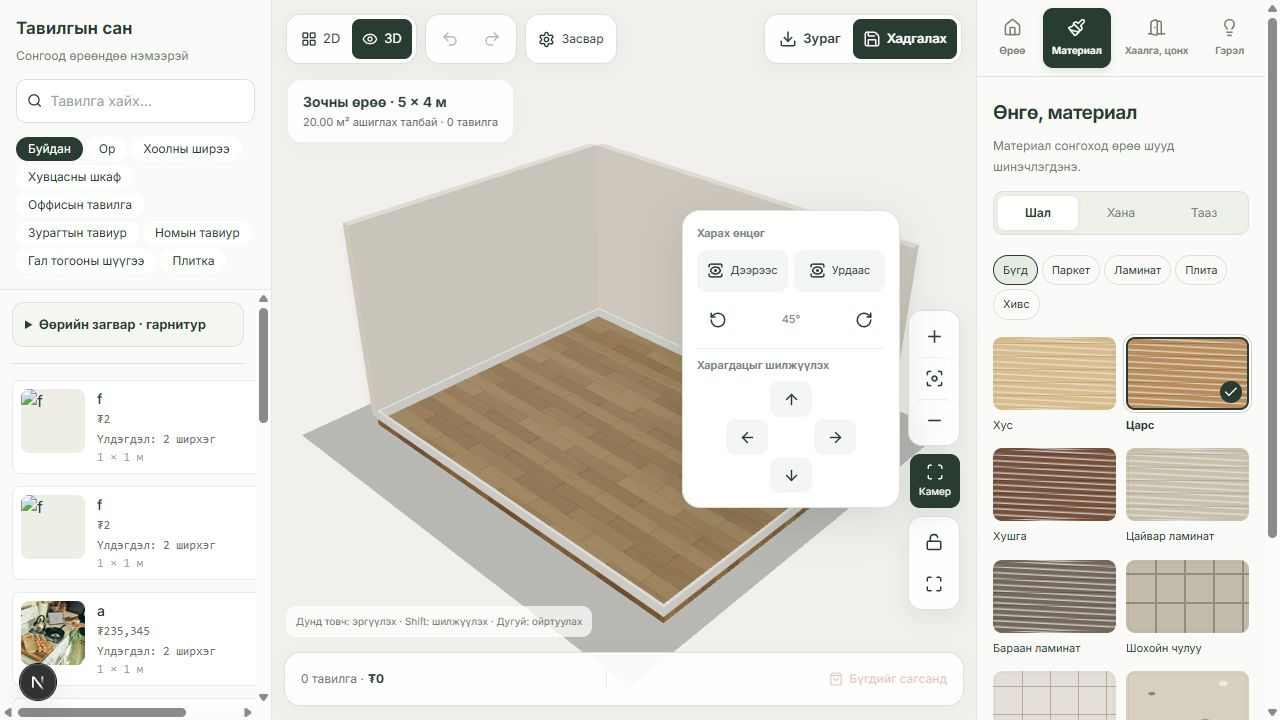
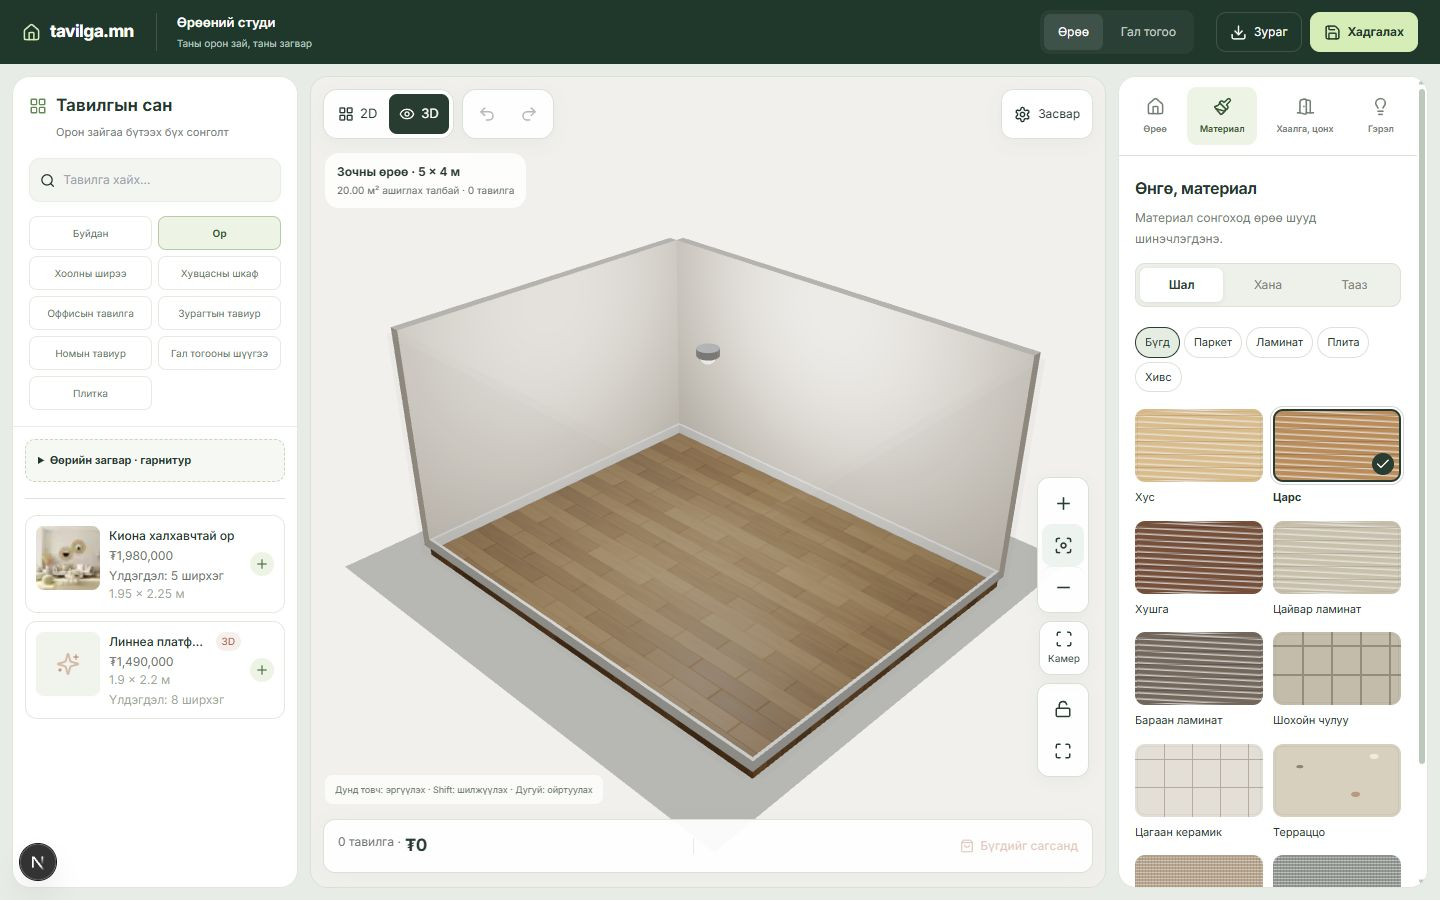
feat: implement studio redesign with shared styles and enhanced UI components

diff --git a/src/features/planner/components/planner-studio.css b/src/features/planner/components/planner-studio.css
@@ -1,0 +1,145 @@
+/* Shared studio chrome. No filters over the WebGL canvas or new animation loops. */
+.planner-studio {
+  --studio-ink: #24372f;
+  --studio-muted: #718078;
+  --studio-line: #e1e6df;
+  --studio-paper: #ffffff;
+  --studio-shell: #e8ece6;
+  --studio-accent: #d7edb8;
+  color: var(--studio-ink);
+  font-family: inherit;
+}
+.studio-header, .planner-studio .kp-planner-topbar {
+  background: #20372c;
+  color: #fff;
+  border: 0;
+  box-shadow: none;
+}
+.studio-header { display: flex; align-items: center; gap: 22px; padding: 0 22px; }
+.studio-brand { display: flex; align-items: center; gap: 9px; font-size: 17px; font-weight: 750; letter-spacing: -.5px; }
+.studio-brand > svg, .planner-studio .kp-planner-brand > svg { color: var(--studio-accent); }
+.studio-heading { display: flex; flex-direction: column; gap: 3px; padding-left: 20px; border-left: 1px solid #ffffff24; white-space: nowrap; }
+.studio-heading > span { font-size: 13px; font-weight: 600; }
+.studio-heading small { font-size: 10px; color: #bccbc1; }
+.studio-switch { display: flex; gap: 4px; margin-left: auto; padding: 4px; background: #ffffff0c; border-radius: 10px; font-size: 12px; }
+.studio-switch > * { display: inline-flex; align-items: center; justify-content: center; min-height: 36px; padding: 0 14px; border-radius: 7px; color: #c2cec6; }
+.studio-switch [aria-current] { background: #ffffff18; color: #fff; }
+.studio-switch a:hover { background: #ffffff12; color: #fff; }
+.studio-file-actions { display: flex; gap: 8px; }
+.studio-file-actions button { min-height: 40px; display: inline-flex; align-items: center; justify-content: center; gap: 7px; padding: 8px 13px; border: 1px solid #ffffff24; border-radius: 10px; color: #fff; font-size: 12px; }
+.studio-file-actions button:hover { background: #ffffff15; }
+.studio-file-actions .studio-primary { color: #20372c; background: var(--studio-accent); border-color: var(--studio-accent); font-weight: 700; }
+.studio-file-actions .studio-primary:hover { background: #e4f4ce; }
+.planner-studio :focus-visible { outline: 2px solid #a9c787; outline-offset: 3px; }
+.planner-studio .planner-drawer-body, .planner-studio .kp-settings { scrollbar-width: thin; scrollbar-color: #bcc8bb transparent; }
+.planner-studio .viewport-zoom, .planner-studio .viewport-more > summary, .planner-studio .viewport-extra { border-color: #d8e1d5; box-shadow: 0 4px 15px #20372c0c; border-radius: 12px; }
+.planner-studio .viewport-more[open] > summary { background: #20372c; border-color: #20372c; }
+.planner-studio .viewport-popover { border-radius: 14px; border-color: #d8e1d5; }
+.planner-studio .viewport-popover p { letter-spacing: .02em; color: #546c5c; }
+.planner-studio button { transition: background-color 140ms, border-color 140ms, color 140ms; }
+
+/* Room: a persistent project bar, with three framed workspace columns. */
+.planner-workspace.planner-studio { padding: 76px 12px 12px; gap: 12px; grid-template-columns: 286px minmax(0, 1fr) 310px; background: var(--studio-shell); }
+.room-studio-header { position: absolute; inset: 0 0 auto; z-index: 40; height: 64px; }
+.planner-studio .planner-stage { min-width: 0; min-height: 0; overflow: hidden; border: 1px solid #d9e0d4; border-radius: 18px; }
+.planner-studio .planner-drawer { border: 1px solid var(--studio-line); border-radius: 18px; background: #fff; }
+.planner-studio .planner-panel-heading { margin-bottom: 18px; font-size: 17px; }
+.planner-studio .planner-panel-heading > span { display: flex; align-items: center; gap: 9px; }
+.planner-studio .planner-panel-heading svg { color: #638a52; }
+.planner-studio .planner-panel-heading small { font-size: 11px; margin-left: 27px; color: var(--studio-muted); }
+.planner-studio .planner-search { background: #f3f6f0; border: 1px solid #e8ede4; border-radius: 11px; min-height: 44px; }
+.planner-studio .planner-search input { font-size: 12px; }
+.studio-categories { display: grid; grid-template-columns: repeat(2, minmax(0, 1fr)); gap: 6px; }
+.studio-categories button { border: 1px solid #e6ebe2; border-radius: 8px; background: #fff; min-height: 34px; padding: 7px 5px; font-size: 10px; color: #647565; }
+.studio-categories button[aria-pressed="true"] { background: #edf4e5; color: #355531; border-color: #b9ccaa; font-weight: 650; }
+.studio-catalog-scroll { overflow-x: hidden; }
+.studio-catalog-list { gap: 8px; grid-template-columns: minmax(0, 1fr); }
+.studio-catalog-list > button { min-width: 0; width: 100%; padding: 10px; border-radius: 12px; border-color: #e4e9e0; gap: 9px; }
+.studio-catalog-list > button:hover { background: #f7faf3; border-color: #b9ccaa; }
+.studio-catalog-list > button > div:first-child { background: #f1f3ed; }
+.studio-catalog-list > button > div:last-child { width: 24px; height: 24px; flex-shrink: 0; background: #edf4e5; color: #4c7043; }
+.studio-catalog-list p { font-family: inherit; }
+.studio-catalog-list p:first-child { font-size: 12px; }
+.planner-studio .planner-kitchen-library > summary { font-size: 11px; background: #f6f8f3; border: 1px dashed #c8d5bf; border-radius: 10px; }
+.planner-studio .room-environment-tabs { background: #fff; padding: 10px 8px; gap: 4px; }
+.planner-studio .room-environment-tabs button { border-radius: 10px; min-height: 58px; font-size: 9px; }
+.planner-studio .room-environment-tabs button[aria-pressed="true"] { background: #edf4e5; color: #355531; box-shadow: none; }
+.planner-studio .room-panel-intro { padding-top: 20px; }
+.planner-studio .room-panel-intro h3 { font-size: 16px; letter-spacing: -.3px; }
+.planner-studio .room-material-sample { border-radius: 10px; }
+.planner-studio .planner-view-toolbar { top: 12px; left: 12px; right: 12px; }
+.planner-studio .planner-tools-menu { margin-left: auto; }
+.planner-studio .planner-tools-popover { left: auto; right: 0; }
+.planner-studio .planner-tools-menu > summary { min-height: 50px; border-radius: 12px; }
+.planner-studio .planner-room-caption { top: 76px; left: 14px; background: #ffffffd9; border: 0; box-shadow: none; padding: 10px 12px; }
+.planner-studio .planner-room-caption strong { font-size: 12px; }
+.planner-studio .planner-room-caption span { font-size: 10px; }
+.planner-studio .planner-budget-bar { padding: 12px 14px; border-radius: 12px; border-color: #d9e2d3; }
+.planner-studio .planner-budget-bar strong { font-size: 17px; letter-spacing: -.4px; }
+.planner-studio .planner-budget-bar button:not(:disabled) { background: #20372c; color: #fff; padding: 9px 12px; border-radius: 8px; }
+.planner-studio .room-camera-guide { background: #ffffffb8; border-radius: 8px; font-size: 9px; }
+.planner-studio .planner-measure-readout { top: 142px; }
+
+/* Kitchen: same project bar and inspector, retaining its full-canvas workflow. */
+.planner-studio.kp-shell { background: var(--studio-shell); }
+.planner-studio .kp-planner-topbar { min-height: 64px; padding: 10px 20px; gap: 14px; flex-shrink: 0; }
+.planner-studio .kp-planner-brand { color: #fff; border: 0; padding-right: 0; font-size: 17px; letter-spacing: -.5px; }
+.planner-studio .kp-planner-steps { display: none; }
+.planner-studio .kp-top-actions > button, .planner-studio .kp-top-menu > summary, .planner-studio .kp-close-planner { color: #dce6de; background: #ffffff0b; border-color: #ffffff20; min-height: 40px; }
+.planner-studio .kp-top-actions > .kp-top-menu { margin: 0; }
+.planner-studio .kp-top-actions > button:hover:not(:disabled), .planner-studio .kp-top-menu > summary:hover, .planner-studio .kp-close-planner:hover { background: #ffffff19; }
+.planner-studio .kp-project-name input { background: #ffffff0b; color: #fff; border-color: #ffffff20; min-height: 40px; }
+.planner-studio .kp-top-actions > .kp-save-button { background: var(--studio-accent); color: #20372c; border-color: var(--studio-accent); font-weight: 700; }
+.planner-studio .kp-top-actions > .kp-save-button:hover:not(:disabled) { background: #e4f4ce; }
+.planner-studio .kp-top-menu .km-layout-options, .planner-studio .kp-more-content { color: var(--studio-ink); }
+.planner-studio .kp-layout { margin: 12px; border: 1px solid #d9e0d4; border-radius: 18px; }
+.planner-studio .kp-preview-bar > span { font-size: 11px; border-radius: 12px; box-shadow: none; border: 1px solid #e0e7db; }
+.planner-studio .km-view-tools { border-color: #d8e1d5; box-shadow: 0 4px 15px #20372c08; }
+.planner-studio .kp-settings { border-radius: 14px; border-color: #d8e1d5; box-shadow: 0 8px 32px #20372c12; }
+.planner-studio .kp-settings-head { border-color: var(--studio-line); background: #f4f7ef; border-radius: 10px; font-size: 14px; }
+.planner-studio .kp-settings { backdrop-filter: none; background: #fff; }
+.planner-studio .kp-settings > details { border: 1px solid #e1e7da; box-shadow: none; border-radius: 12px; background: #f8faf5; }
+.planner-studio .kp-settings > details > summary { font-size: 12px; }
+.planner-studio .studio-extras-panel { background: #fff; border-color: #e1e7da; }
+.studio-extras-panel h2 { font-size: 15px; margin-bottom: 14px; }
+.studio-extras-tabs { display: flex; gap: 4px; padding: 4px; background: #f0f4eb; border-radius: 9px; margin-bottom: 14px; }
+.planner-studio .studio-extras-tabs > button { flex: 1; font-size: 12px; min-height: 40px; border-radius: 6px; }
+.studio-extras-tabs > button[aria-pressed="true"] { background: #fff; box-shadow: 0 2px 6px #20372c0c; color: #355531; }
+.studio-extras-panel .kp-field { font-size: 11px; display: flex; flex-direction: column; gap: 7px; margin-bottom: 14px; }
+.studio-extras-panel .kp-field input { background: #f5f8f1; min-height: 42px; font-size: 14px; }
+.studio-extras-panel .km-extras-list > button { font-size: 12px; border-radius: 10px; min-width: 0; }
+.studio-extras-panel .km-extras-list > button:hover:not(:disabled) { background: #f7faf3; border-color: #b9ccaa; }
+.studio-extras-panel .km-extras-list img { width: 64px; height: 64px; flex-shrink: 0; background: #f0f4eb; }
+.studio-extras-panel .km-extras-list small { font-size: 10px; margin-top: 5px; }
+.planner-studio .kp-settings input, .planner-studio .kp-settings select { border-radius: 8px; }
+.planner-studio .kp-preview-hint, .planner-studio .km-feedback { box-shadow: none; border: 1px solid #ffffffa8; }
+@media (min-width: 761px) {
+  .planner-studio.kp-shell:has(.kp-settings.is-open) .kp-preview-bar { right: 420px; flex-wrap: wrap; }
+  .planner-studio.kp-shell:has(.kp-settings.is-open) .km-feedback { right: 420px; }
+}
+
+@media (max-width: 1390px) { .kitchen-studio-heading { display: none; } }
+@media (max-width: 1279px) {
+  .planner-workspace.planner-studio { padding: 64px 0 0; }
+  .planner-studio .planner-stage { border: 0; border-radius: 0; }
+  .planner-studio .planner-mobile-toolbar { top: 64px; min-height: 48px; background: #fff; border-color: var(--studio-line); backdrop-filter: none; }
+  .planner-studio .planner-view-toolbar { top: 60px; }
+  .planner-studio .planner-room-caption { top: 124px; }
+  .planner-studio .planner-measure-readout { top: 190px; }
+  .planner-studio .planner-drawer { top: 64px; border-radius: 0; }
+}
+@media (max-width: 760px) {
+  .studio-header { gap: 8px; padding: 0 12px; }
+  .studio-brand { font-size: 15px; }
+  .studio-heading, .studio-switch { display: none; }
+  .studio-file-actions { margin-left: auto; gap: 6px; }
+  .studio-file-actions button { min-width: 40px; padding: 8px; }
+  .studio-file-actions button > span { display: none; }
+  .planner-studio .kp-planner-topbar { padding: 8px; min-height: 60px; gap: 7px; }
+  .planner-studio .kp-top-actions { gap: 4px; }
+  .planner-studio .kp-top-actions > button, .planner-studio .kp-top-menu > summary, .planner-studio .kp-close-planner { min-height: 42px; }
+  .planner-studio .kp-layout { margin: 0; border: 0; border-radius: 0; }
+  .planner-studio .kp-preview-hint { font-size: 10px; }
+}
+@media (max-width: 359px) { .planner-studio .kp-planner-topbar { min-height: 102px; } }
+@media (prefers-reduced-motion: reduce) { .planner-studio button { transition: none; } }

diff --git a/src/components/RoomPlanner.tsx b/src/components/RoomPlanner.tsx
@@ -86,6 +86,7 @@ import {
   formatMeasurement,
 } from "@/lib/furnitureMeasurements";
 import "./room-planner.css";
+import "@/features/planner/components/planner-studio.css";
 import { type DbModelInfo, getDbModel } from "@/lib/modelRegistry";
 
 const RoomCanvas = dynamic(
@@ -819,10 +820,28 @@ export function RoomPlanner() {
     <div
       ref={workspaceRef}
       className={cn(
-        "room-planner-layout planner-workspace relative overflow-hidden xl:grid",
+        "room-planner-layout planner-workspace planner-studio relative overflow-hidden xl:grid",
         expanded && "planner-expanded",
       )}
     >
+      <header className="studio-header room-studio-header">
+        <Link href="/" className="studio-brand" aria-label="Tavilga.mn нүүр">
+          <House size={19}/><span>tavilga.mn</span>
+        </Link>
+        <div className="studio-heading"><span>Өрөөний студи</span><small>Таны орон зай, таны загвар</small></div>
+        <nav className="studio-switch" aria-label="Planner сонгох">
+          <span aria-current="page">Өрөө</span>
+          <Link href="/kitchen">Гал тогоо</Link>
+        </nav>
+        <div className="studio-file-actions">
+          <button type="button" title="PNG зураг татах" aria-label="Зураг татах" onClick={exportImage}>
+            <Download size={17}/><span>Зураг</span>
+          </button>
+          <button type="button" className="studio-primary" title="Хадгалах (Ctrl+S)" aria-label="Загвар хадгалах" onClick={save}>
+            <Save size={17}/><span>Хадгалах</span>
+          </button>
+        </div>
+      </header>
       {notice && (
         <div className="planner-notice" role="status">
           <Check size={17} />
@@ -858,8 +877,8 @@ export function RoomPlanner() {
       >
         <div className="border-b border-[#293C32]/10 p-4">
           <div className="planner-panel-heading">
-            <span>Тавилгын сан</span>
-            <small>Сонгоод өрөөндөө нэмээрэй</small>
+            <span><LayoutGrid size={18}/> Тавилгын сан</span>
+            <small>Орон зайгаа бүтээх бүх сонголт</small>
           </div>
           <label className="planner-search">
             <Search size={17} />
@@ -870,10 +889,11 @@ export function RoomPlanner() {
               onChange={(event) => setQuery(event.target.value)}
             />
           </label>
-          <div className="flex flex-wrap gap-1">
+          <div className="studio-categories" role="group" aria-label="Тавилгын ангилал">
             {CATEGORIES.map((c) => (
               <button
                 key={c.id}
+                aria-pressed={paletteCat === c.id}
                 onClick={() => setPaletteCat(c.id)}
                 className={cn(
                   "rounded-full px-3 py-1 text-xs transition",
@@ -887,7 +907,7 @@ export function RoomPlanner() {
             ))}
           </div>
         </div>
-        <div className="flex-1 overflow-y-auto p-3">
+        <div className="studio-catalog-scroll flex-1 overflow-y-auto p-3">
           <details className="planner-kitchen-library">
             <summary>Өөрийн загвар · гарнитур</summary>
             <SavedKitchenList
@@ -926,7 +946,7 @@ export function RoomPlanner() {
               retry={() => void catalog.refresh()}
             />
           )}
-          <div className="grid gap-3">
+          <div className="studio-catalog-list grid gap-3">
             {catalog.ready &&
               !catalog.loading &&
               !paletteItems.length &&
@@ -1038,7 +1058,7 @@ export function RoomPlanner() {
       </Drawer>
 
       {/* CENTER: canvas */}
-      <div className="relative h-full">
+      <div className="planner-stage relative h-full">
         <div className="planner-view-toolbar">
           <div className="planner-segment" aria-label="Харах горим">
             <button
@@ -1101,22 +1121,6 @@ export function RoomPlanner() {
             </button>
             </div>
           </details>
-          <div className="planner-tool-group planner-file-actions">
-            <button
-              title="PNG зураг татах"
-              aria-label="Зураг татах"
-              onClick={exportImage}
-            >
-              <Download size={18} /><span>Зураг</span>
-            </button>
-            <button
-              title="Хадгалах (Ctrl+S)"
-              aria-label="Загвар хадгалах"
-              onClick={save}
-            >
-              <Save size={18} /><span>Хадгалах</span>
-            </button>
-          </div>
         </div>
         <ViewportControls onAction={navigateView} plan={view === "plan"} disabled={locked}
           extra={<>

diff --git a/src/features/kitchen-planner/components/ExtrasPanel.tsx b/src/features/kitchen-planner/components/ExtrasPanel.tsx
@@ -10,7 +10,7 @@ export function ExtrasPanel({ products, selected, room, disabled, error, loading
 }) {
   const [tab,setTab]=useState<"dining"|"extra">("dining"),[query,setQuery]=useState("");
   const options=products.filter(p=>EXTRA_CATEGORIES.includes(p.category)&&((p.category==="dining-table")===(tab==="dining"))&&p.name.toLowerCase().includes(query.toLowerCase()));
-  return <section className="kp-panel" aria-label="Dining болон нэмэлт тавилга">
+  return <section className="kp-panel studio-extras-panel" aria-label="Dining болон нэмэлт тавилга">
     {selected ? <fieldset disabled={disabled} className="km-fields"><h2>{selected.name}</h2><p>{selected.width} × {selected.height} × {selected.depth} мм</p>
       <DimensionInput label="Нэмэлт тавилгын X" value={selected.position.x} min={0} max={room.width} onCommit={x=>onChange({...selected,position:{...selected.position,x}})}/>
       <DimensionInput label="Нэмэлт тавилгын Z" value={selected.position.z} min={0} max={room.depth} onCommit={z=>onChange({...selected,position:{...selected.position,z}})}/>
@@ -22,7 +22,7 @@ export function ExtrasPanel({ products, selected, room, disabled, error, loading
         </select></label>
       </>}
       <button type="button" onClick={onDuplicate}>Нэмэлт тавилгыг хувилах</button><button type="button" onClick={onDelete}>Нэмэлт тавилгыг устгах</button>
-    </fieldset> : <><h2>Dining / Extras каталог</h2><div role="group" aria-label="Нэмэлт каталогийн төрөл"><button type="button" aria-pressed={tab==="dining"} onClick={()=>setTab("dining")}>Хоолны ширээ</button><button type="button" aria-pressed={tab==="extra"} onClick={()=>setTab("extra")}>Нэмэлт тавилга</button></div>
+    </fieldset> : <><h2>Тавилгын каталог</h2><div className="studio-extras-tabs" role="group" aria-label="Нэмэлт каталогийн төрөл"><button type="button" aria-pressed={tab==="dining"} onClick={()=>setTab("dining")}>Хоолны ширээ</button><button type="button" aria-pressed={tab==="extra"} onClick={()=>setTab("extra")}>Нэмэлт тавилга</button></div>
       <label className="kp-field">Тавилга хайх <input type="search" value={query} onChange={e=>setQuery(e.target.value)}/></label>
       {error ? <p role="alert">{error}</p> : loading ? <p role="status">Каталог ачаалж байна…</p> : !options.length ? <p>Энэ төрлийн бүтээгдэхүүн каталогт алга.</p> : null}
       <div className="km-extras-list">{options.map(product=><button type="button" key={product.id} disabled={disabled} aria-label={`Нэмэх: ${product.name}`} onClick={()=>onAdd(product)}>

diff --git a/src/components/ModularKitchenPlanner.tsx b/src/components/ModularKitchenPlanner.tsx
@@ -7,6 +7,7 @@ import { extraFromProduct, findExtraSpace, parseKitchenExtras, type KitchenExtra
 import { ExtrasPanel } from "@/features/kitchen-planner/components/ExtrasPanel";
 import { ProjectReport } from "@/features/kitchen-planner/components/ProjectReport";
 import { ViewportControls } from "@/features/planner/components/ViewportControls";
+import "@/features/planner/components/planner-studio.css";
 import type { CameraRequest } from "@/lib/plannerCamera";
 import { VersionHistory } from "@/features/kitchen-planner/components/VersionHistory";
 import { useCatalog } from "@/store/catalog";
@@ -751,7 +752,7 @@ export function ModularKitchenPlanner({
     });
   }
   return (
-    <main className="kp kp-shell">
+    <main className="kp kp-shell planner-studio">
       <header className="kp-planner-topbar">
         <Link
           href="/"
@@ -760,6 +761,7 @@ export function ModularKitchenPlanner({
         >
           <House size={18} /> <span>tavilga.mn</span>
         </Link>
+        <div className="studio-heading kitchen-studio-heading"><span>Гал тогооны студи</span><small>Зохиох · тохируулах · бүтээх</small></div>
         <nav className="kp-planner-steps" aria-label="Төлөвлөх үе шат">
           <Link href="/kitchen?new=1">Санал авах</Link>
           <span className="is-active">3D төлөвлөх</span>

diff --git a/docs/planner-ui-verification.md b/docs/planner-ui-verification.md
@@ -16,6 +16,13 @@ change, project deletion or asset changes in this update.
 - Accessible button names retained when responsive labels hide; camera menu
   closes on outside pointer press or Escape. No additional UI dependency.
 - Tiny kitchen screens use a two-row toolbar so the exit button is not clipped.
+- Follow-up studio redesign: shared dark-green project bar, pale-green primary
+  save action, framed desktop canvas/sidebars, two-column category selectors,
+  quieter product cards and a styled Dining/Extras search panel. Room image/save
+  actions now live in the persistent header rather than over the 3D canvas.
+  Kitchen uses the same project-bar colors, project naming and inspector style.
+  Decorative blur was removed from the kitchen inspector; no new dependency,
+  rendering loop, database field or asset was introduced for this redesign.
 - Blender-style mouse input on both scenes: middle-button drag orbits, Shift +
   middle pans, Ctrl/Cmd + middle dollies, and the rolling wheel still zooms.
   In room 2D, plain/Shift-middle pan instead of rotating. Left click/drag belongs
@@ -48,9 +55,10 @@ state updates were introduced for orbit/mouse movement.
   camera dock. Kitchen zoom/top/front/pan/rotate work; cabinet count and undo
   state stay unchanged. Escape closes its camera menu.
 - Responsive screenshots checked at desktop 1440×900 and phone 390×844.
-  Kitchen additionally checked at 320×700: toolbar scroll width equals 320,
-  including a visible exit button. Room 320px treatment has compact 2D/3D
-  labels; its directly observed phone viewport was 390px.
+  Both planners additionally checked at 320×700. Kitchen toolbar scroll width
+  equals 320, including a visible exit button. Room header/view controls and
+  camera dock fit; its catalog/settings drawers open and close at 390px, and
+  changing a category updates the visible list and pressed state.
 - Screenshots: `room-planner-ui.png`, `kitchen-planner-ui.png`.
 
 This is local browser verification, not an iPhone GPU/FPS benchmark. Existing
